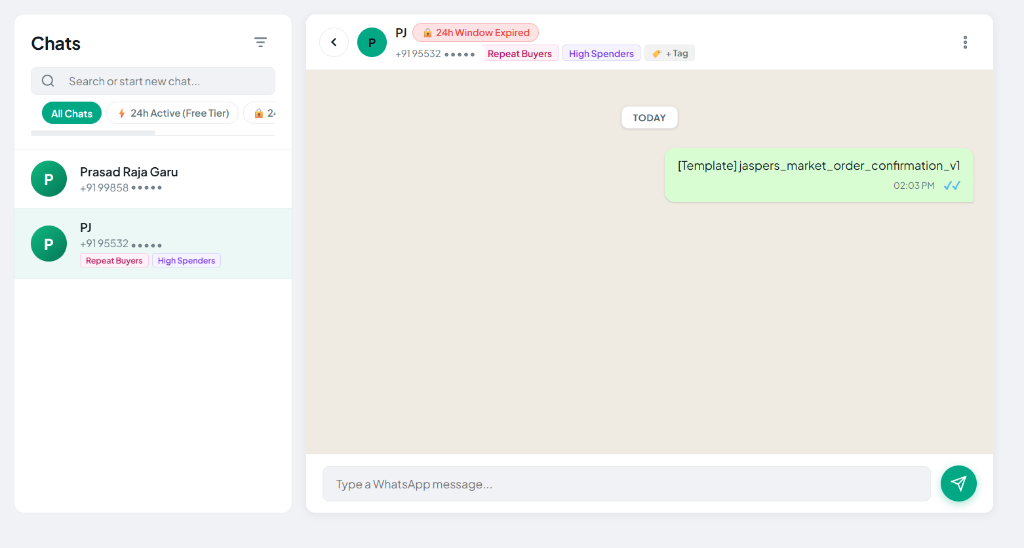
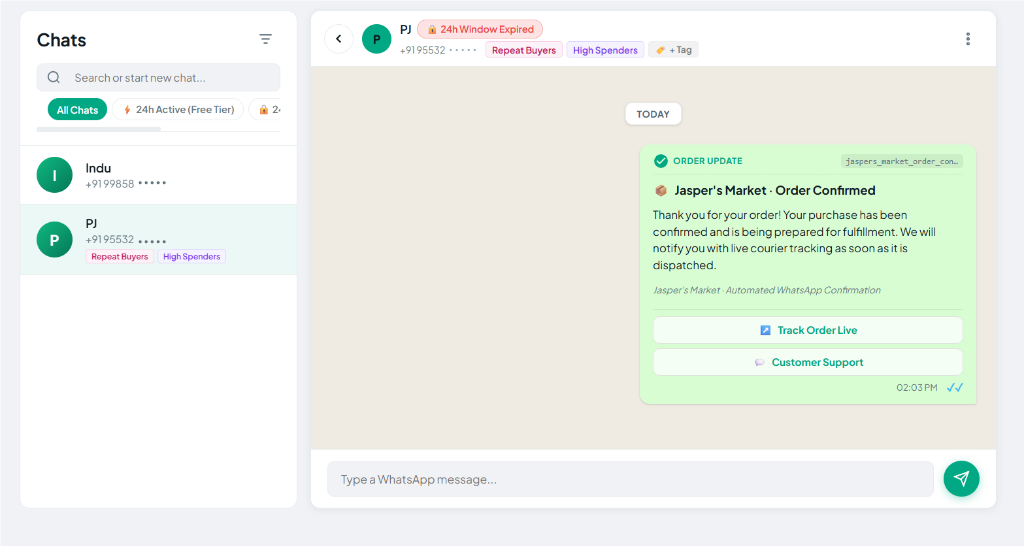
feat: mask phone numbers in inbox showcase image and fix responsive layout and GIS initialization

diff --git a/login.html b/login.html
@@ -365,6 +365,7 @@
         .hero-highlight-green {
             color: #00a884;
             background: linear-gradient(135deg, #00a884 0%, #10b981 100%);
+            background-clip: text;
             -webkit-background-clip: text;
             -webkit-text-fill-color: transparent;
         }
@@ -2649,7 +2650,10 @@
         // Google Sign-In & OIDC Triggers (Configured with User Google OAuth Client ID)
         window.GOOGLE_CLIENT_ID = '357250829704-i4vpc8v3cn4phi39mvejqdmhlkhgllp6.apps.googleusercontent.com';
 
+        let googleIdentityInitialized = false;
+
         function initGoogleIdentity() {
+            if (googleIdentityInitialized) return;
             const activeClientId = window.GOOGLE_CLIENT_ID || localStorage.getItem('inspenox_google_client_id');
             if (activeClientId && window.google?.accounts?.id) {
                 try {
@@ -2659,6 +2663,7 @@
                         auto_select: false,
                         cancel_on_tap_outside: true
                     });
+                    googleIdentityInitialized = true;
                 } catch (e) {
                     console.warn('Google GIS initialize warning:', e);
                 }
@@ -2672,12 +2677,8 @@
         function openGoogleAuth() {
             const activeClientId = window.GOOGLE_CLIENT_ID || localStorage.getItem('inspenox_google_client_id');
             if (activeClientId && window.google?.accounts?.id) {
+                initGoogleIdentity();
                 try {
-                    google.accounts.id.initialize({
-                        client_id: activeClientId,
-                        callback: handleGoogleCredentialResponse,
-                        auto_select: false
-                    });
                     google.accounts.id.prompt((notification) => {
                         if (notification.isNotDisplayed() || notification.isSkippedMoment()) {
                             // If One Tap popup blocked or not permitted in current browser origin, fall back gracefully to direct modal
@@ -2871,7 +2872,7 @@
                 errorBanner.style.display = 'block';
             } finally {
                 submitBtn.disabled = false;
-                submitBtn.innerHTML = 'Start Your FREE FOREVER Plan ➔';
+                submitBtn.innerHTML = 'Start Your FREE Plan ➔';
             }
         });
     </script>
